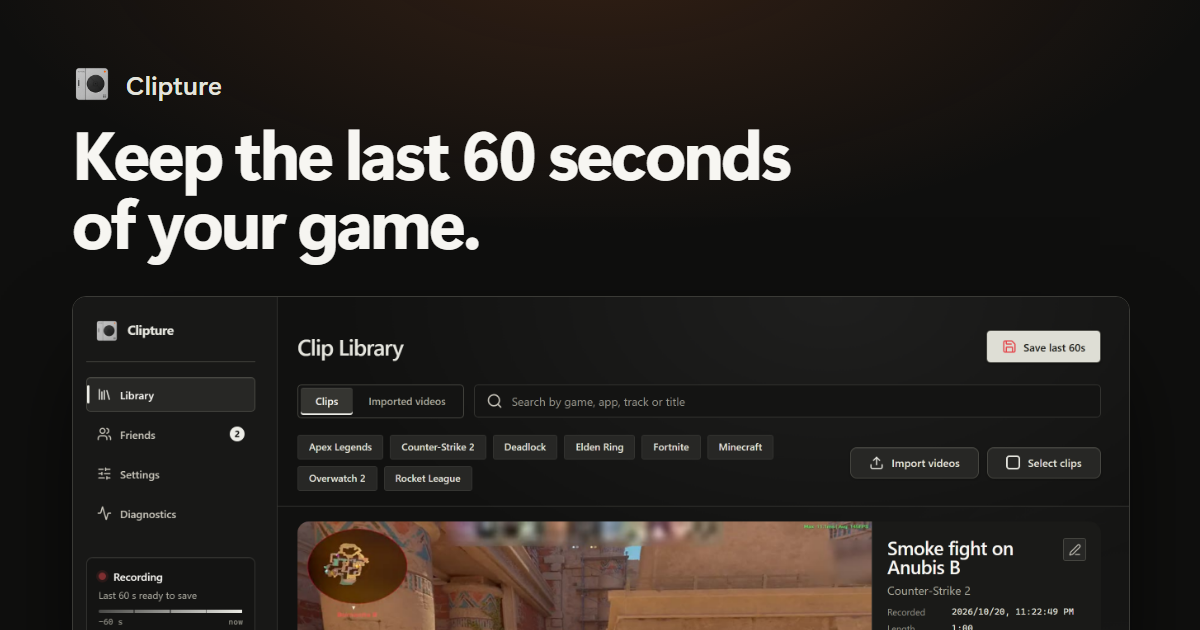
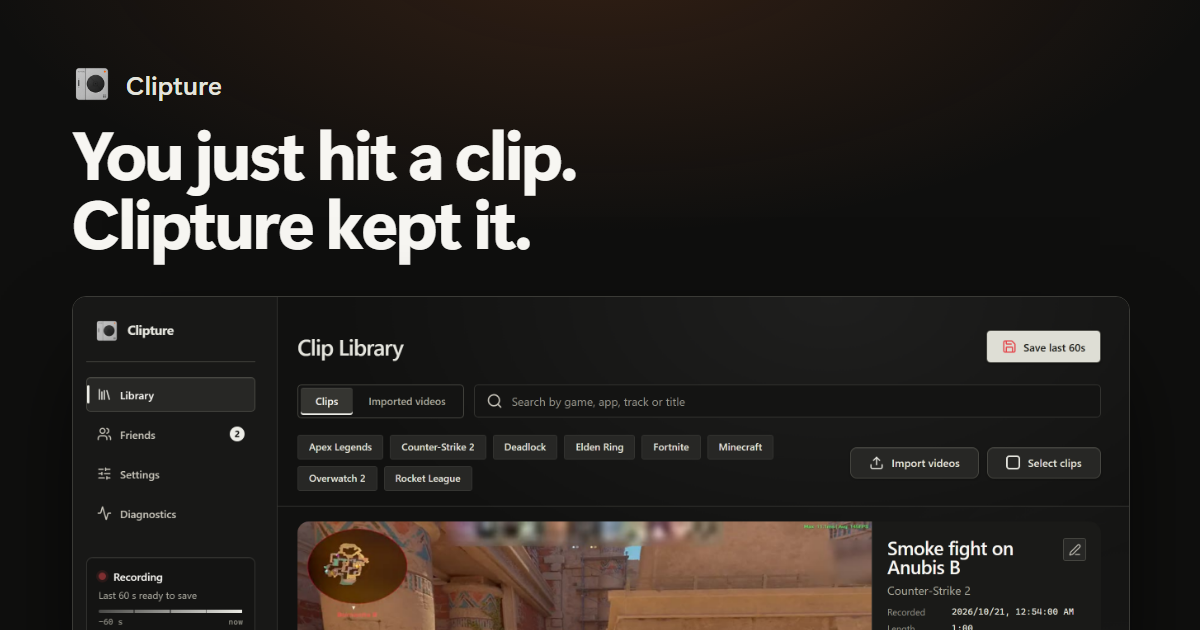
Site: lead with the clip, not a 60-second limit

Changed region(s): [[0.0617, 0.181, 0.6783, 0.4222], [0.8325, 0.9651, 0.8942, 0.9952]]

diff --git a/web/index.html b/web/index.html
@@ -3,19 +3,19 @@
 <head>
   <meta charset="utf-8">
   <meta name="viewport" content="width=device-width, initial-scale=1">
-  <title>Clipture: keep the last 60 seconds of your game</title>
-  <meta name="description" content="Clipture records your game in the background on your NVIDIA GPU. Press a key to keep the last 60 seconds, then send the clip straight to a friend's PC.">
+  <title>Clipture: save the play you just made</title>
+  <meta name="description" content="Clipture records your game in the background on your NVIDIA GPU. Press a key to save the play you just made, then send the clip straight to a friend's PC.">
   <meta name="theme-color" content="#0f0f0e">
   <link rel="canonical" href="https://clipture.app/">
   <meta property="og:type" content="website">
   <meta property="og:url" content="https://clipture.app/">
   <meta property="og:site_name" content="Clipture">
-  <meta property="og:title" content="Clipture: keep the last 60 seconds of your game">
+  <meta property="og:title" content="Clipture: save the play you just made">
   <meta property="og:description" content="Free, open-source game clipping for Windows. Records on your NVIDIA GPU; press Ctrl+Shift+S to keep the moment you just played.">
   <meta property="og:image" content="https://clipture.app/og-image.png">
   <meta property="og:image:width" content="1200">
   <meta property="og:image:height" content="630">
-  <meta property="og:image:alt" content="The Clipture app showing a clip library, under the line: Keep the last 60 seconds of your game.">
+  <meta property="og:image:alt" content="The Clipture app showing a clip library, under the line: You just hit a clip. Clipture kept it.">
   <meta name="twitter:card" content="summary_large_image">
   <link rel="icon" type="image/png" href="/favicon.png">
   <link rel="stylesheet" href="/site.css">
